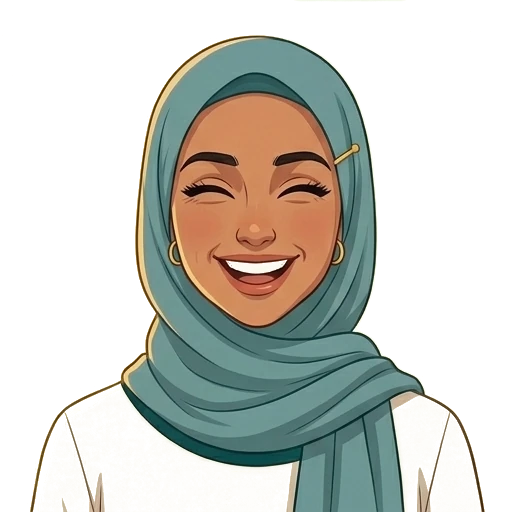
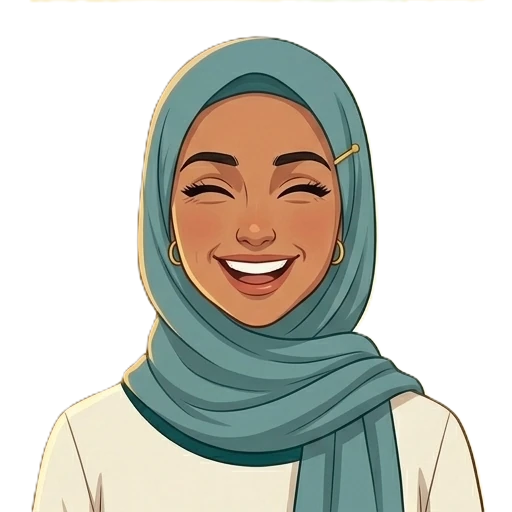
Cut the mascot images from transparent PNG sheets instead of keying out the wash

diff --git a/frontend/scripts/build_mascots.py b/frontend/scripts/build_mascots.py
@@ -1,10 +1,11 @@
 """Cut the mascots' expression sheets into the images the site serves.
 
-Each mascot's `<Name>.expressions.jpg` in design/podcast/characters/<Name>/ is a 2x2 sheet of
-the same portrait in four states, in reading order: listening, speaking, laughing,
-thoughtful. This cuts the four quadrants, keys the flat gold wash Gemini painted behind them
-to transparent (the site fills the disc with its own gold-wash token, which changes in dark
-mode) and writes public/images/mascots/<name>/<expression>.webp at 512 px.
+Each mascot's `<Name>.expressions.png` in design/podcast/characters/<Name>/ is a 2x2 sheet of
+the same portrait in four states on a transparent background, in reading order: listening,
+speaking, laughing, thoughtful. This cuts the four quadrants, pixel for pixel, and writes
+public/images/mascots/<name>/<expression>.webp with the transparency kept (the site fills the
+disc with its own gold-wash token, which changes in dark mode). A 1024 px sheet gives
+512 px images.
 
     npm run mascots:build
 
@@ -19,11 +20,6 @@ from pathlib import Path
 from PIL import Image
 
 EXPRESSIONS = ("listening", "speaking", "laughing", "thoughtful")
-# Colour distance from the wash below which a pixel is fully transparent, and above which it
-# is fully opaque; between them the alpha ramps, which softens the figure's outline.
-KEY_INNER = 14
-KEY_OUTER = 40
-SIZE = 512
 
 HERE = Path(__file__).resolve().parent
 DEFAULT_SOURCE = HERE.parent / "design" / "podcast" / "characters"
@@ -31,62 +27,30 @@ DEFAULT_OUT = HERE.parent / "public" / "images" / "mascots"
 
 
 def quadrants(sheet: Image.Image) -> dict[str, Image.Image]:
-    """The four expressions, cut from the sheet in reading order."""
-    width, height = sheet.size
+    """The four expressions, cut from the sheet in reading order, pixels untouched."""
+    rgba = sheet.convert("RGBA")
+    width, height = rgba.size
     half_w, half_h = width // 2, height // 2
     boxes = [(0, 0), (half_w, 0), (0, half_h), (half_w, half_h)]
     return {
-        name: sheet.crop((x, y, x + half_w, y + half_h))
+        name: rgba.crop((x, y, x + half_w, y + half_h))
         for name, (x, y) in zip(EXPRESSIONS, boxes)
     }
 
 
-def corner_colour(image: Image.Image) -> tuple[int, int, int]:
-    """The wash, sampled where nothing is ever drawn: the top-left pixel."""
-    r, g, b = image.convert("RGB").getpixel((0, 0))[:3]
-    return (r, g, b)
-
-
-def key_out(image: Image.Image, wash: tuple[int, int, int]) -> Image.Image:
-    """The image with the wash made transparent and a soft edge where the figure meets it."""
-    rgb = image.convert("RGB")
-    alpha = Image.new("L", rgb.size)
-    source = rgb.load()
-    target = alpha.load()
-    wr, wg, wb = wash
-    span = KEY_OUTER - KEY_INNER
-    for y in range(rgb.height):
-        for x in range(rgb.width):
-            r, g, b = source[x, y]
-            distance = ((r - wr) ** 2 + (g - wg) ** 2 + (b - wb) ** 2) ** 0.5
-            if distance <= KEY_INNER:
-                target[x, y] = 0
-            elif distance >= KEY_OUTER:
-                target[x, y] = 255
-            else:
-                target[x, y] = int(255 * (distance - KEY_INNER) / span)
-    keyed = rgb.convert("RGBA")
-    keyed.putalpha(alpha)
-    return keyed
-
-
-def build(source: Path, out: Path, size: int = SIZE) -> list[Path]:
+def build(source: Path, out: Path) -> list[Path]:
     """Write every mascot's four expressions; returns the files written."""
     written = []
     for folder in sorted(p for p in source.iterdir() if p.is_dir()):
-        sheet_path = folder / f"{folder.name}.expressions.jpg"
+        sheet_path = folder / f"{folder.name}.expressions.png"
         if not sheet_path.exists():
             continue
         with Image.open(sheet_path) as sheet:
-            wash = corner_colour(sheet)
             target = out / folder.name.lower()
             target.mkdir(parents=True, exist_ok=True)
             for expression, image in quadrants(sheet).items():
-                keyed = key_out(image, wash)
-                if keyed.size != (size, size):
-                    keyed = keyed.resize((size, size), Image.Resampling.LANCZOS)
                 path = target / f"{expression}.webp"
-                keyed.save(path, "WEBP", quality=90, method=6)
+                image.save(path, "WEBP", quality=90, method=6)
                 written.append(path)
     return written
 

diff --git a/frontend/scripts/test_build_mascots.py b/frontend/scripts/test_build_mascots.py
@@ -1,4 +1,4 @@
-"""Tests for build_mascots.py: cutting the expression sheets and keying out the wash."""
+"""Tests for build_mascots.py: cutting the transparent expression sheets into quadrants."""
 
 import sys
 import tempfile
@@ -10,15 +10,13 @@ from PIL import Image
 sys.path.insert(0, str(Path(__file__).parent))
 import build_mascots as b  # noqa: E402
 
-WASH = (249, 240, 201)
 
-
-def sheet(size=64, wash=WASH):
-    """A 2x2 sheet on the wash: each quadrant holds a disc of its own colour."""
-    img = Image.new("RGB", (size, size), wash)
+def sheet(size=64):
+    """A transparent 2x2 sheet: each quadrant holds an opaque disc of its own colour."""
+    img = Image.new("RGBA", (size, size), (0, 0, 0, 0))
     px = img.load()
     half = size // 2
-    colours = {(0, 0): (10, 20, 30), (1, 0): (40, 50, 60), (0, 1): (70, 80, 90), (1, 1): (100, 110, 120)}
+    colours = {(0, 0): (10, 20, 30, 255), (1, 0): (40, 50, 60, 255), (0, 1): (70, 80, 90, 255), (1, 1): (100, 110, 120, 255)}
     for (qx, qy), colour in colours.items():
         cx, cy = qx * half + half // 2, qy * half + half // 2
         for x in range(size):
@@ -39,34 +37,22 @@ class QuadrantsTest(unittest.TestCase):
         self.assertEqual(cut["thoughtful"].getpixel((16, 16)), colours[(1, 1)])
         self.assertEqual(cut["listening"].size, (32, 32))
 
-
-class KeyOutTest(unittest.TestCase):
-    def test_wash_becomes_transparent_and_the_figure_stays_opaque(self):
+    def test_pixels_are_copied_as_they_are_including_their_transparency(self):
         img, _ = sheet()
-        keyed = b.key_out(img, b.corner_colour(img))
-        self.assertEqual(keyed.mode, "RGBA")
-        self.assertEqual(keyed.getpixel((0, 0))[3], 0)
-        self.assertEqual(keyed.getpixel((16, 16))[3], 255)
-
-    def test_a_slightly_off_wash_pixel_is_still_keyed(self):
-        img, _ = sheet()
-        img.putpixel((1, 1), (246, 238, 205))
-        keyed = b.key_out(img, b.corner_colour(img))
-        self.assertEqual(keyed.getpixel((1, 1))[3], 0)
-
-    def test_corner_colour_is_sampled_from_the_sheet(self):
-        img, _ = sheet(wash=(250, 243, 208))
-        self.assertEqual(b.corner_colour(img), (250, 243, 208))
+        cut = b.quadrants(img)
+        self.assertEqual(cut["listening"].mode, "RGBA")
+        self.assertEqual(cut["listening"].getpixel((0, 0))[3], 0)
+        self.assertEqual(cut["listening"].getpixel((16, 16))[3], 255)
 
 
 class BuildTest(unittest.TestCase):
-    def test_writes_four_transparent_webps_per_mascot(self):
+    def test_cuts_each_mascots_png_sheet_into_four_transparent_webps(self):
         with tempfile.TemporaryDirectory() as tmp:
             src, out = Path(tmp) / "characters", Path(tmp) / "out"
             for name in ("Hamza", "Zoya"):
                 (src / name).mkdir(parents=True)
-                sheet()[0].save(src / name / f"{name}.expressions.jpg", quality=95)
-            written = b.build(src, out, size=32)
+                sheet()[0].save(src / name / f"{name}.expressions.png")
+            written = b.build(src, out)
             self.assertEqual(len(written), 8)
             for name in ("hamza", "zoya"):
                 for expression in b.EXPRESSIONS:
@@ -75,6 +61,15 @@ class BuildTest(unittest.TestCase):
                     with Image.open(path) as img:
                         self.assertEqual(img.size, (32, 32))
                         self.assertEqual(img.mode, "RGBA")
+                        self.assertEqual(img.getpixel((0, 0))[3], 0)
+                        self.assertEqual(img.getpixel((16, 16))[3], 255)
+
+    def test_a_folder_with_only_a_jpg_sheet_is_skipped(self):
+        with tempfile.TemporaryDirectory() as tmp:
+            src, out = Path(tmp) / "characters", Path(tmp) / "out"
+            (src / "Hamza").mkdir(parents=True)
+            sheet()[0].convert("RGB").save(src / "Hamza" / "Hamza.expressions.jpg")
+            self.assertEqual(b.build(src, out), [])
 
 
 if __name__ == "__main__":

diff --git a/CLAUDE.md b/CLAUDE.md
@@ -67,7 +67,7 @@ infra/             Terraform modules: azure/ (swa, keyvault, log-analytics, aca-
 - **The printed volume**: `src/components/book-model/book-model.tsx` renders the Noor e Imaan book as a Three.js scene on the signed-out home hero (`variant="hero"`, pointer tilt), the continue-reading card (`variant="card"`, a gold ribbon at the reader's `quranProgress()` through all 6236 verses, from `src/lib/quran-progress.ts`) and the About page (`variant="inspect"`, drag to rotate, pinch to zoom; a plain mouse wheel still scrolls the page, only a trackpad pinch, which arrives as a ctrl+wheel event, zooms). The component owns lifecycle only: it shows the poster `public/images/noor-e-imaan-book-poster.webp` first, and only when `canRenderBook()` in `src/lib/book-model-support.ts` passes (no reduced motion, no Save-Data, at least 2 GB device memory, WebGL 2 available), the box is within 200 px of the viewport and the window has loaded does it `import()` `book-scene.ts`, so Three.js is a separate chunk never loaded by `/quran/*`. The scene renders on demand (no frames at rest) and any failure leaves the poster. The consumer sizes the box through `className`; the component's own default size sits in a `:where()` rule so it never outranks the consumer's class. The served model `public/models/noor-e-imaan-book.v1.glb` (about 370 KB, budget 500 KB) is built from the 34 MB Blender export `design/noor_e_iman_book.glb` by `npm run model:build`; the poster is captured from the live dev server by `npm run model:poster` (needs local Chrome; the dev server must not share its `.next` folder with a concurrent `npm run build`, which 404s the dev chunks). The cover is a single mesh with no hinge, so the book does not open; the spec `plans/frontend-book-model-spec.md` records the Blender work an opening transition would need. Copy rules from the cold-start work apply: nothing says "3D", "model" or "loading"
 - **Sharing a verse**: the Share button on a verse (continuous-mode block or verse-mode popup) opens `src/components/scripture/share-verse-sheet.tsx`, a bottom sheet headed simply "Share" over the verse reference, with two options named for what the recipient receives rather than where the link opens from: **"This ayah"** shares the chapter link (`/quran/<c>/?verse=<v>`, which scrolls to and flashes the verse; hint "<chapter name>, verse <v>") and **"This ruku"** shares the ruku within the juz (`/quran/juz/<j>/ruku/<r>/`, deliberately without a `?verse=` query: the ruku link shares the passage and opens at its start; hint "Ruku <r> of juz <j>"). A third "From its juz" option (`/quran/juz/<j>/?verse=<c>-<v>`) was removed as redundant with the ruku one, and the options were renamed from "From its chapter"/"From its ruku" at the same time. The juz and ruku numbers come from the verse's `RukuDto` in the static `RUKU_BY_ID` map (`src/data/rukus.ts`), so they are available immediately; the ruku option falls back to disabled with the hint "Finding its place in the book" only if a verse's ruku is missing. Link and message builders live in `src/lib/share-verse.ts`; the message opens with "Noor-e-Imaan | <chapter name> <c>:<v>", plus " | Juz <j>, Ruku <r>" when shared from the ruku (so the recipient still sees which verse prompted the share even though that link opens at the ruku's start), then the translation as displayed on its own line, never the Arabic. The link travels separately: `navigator.share` gets it in `url` only (share targets append `url` to `text` themselves, so putting it in both printed it twice), and the clipboard fallback appends it once to the copied text, with a "Copied" confirmation in the sheet that closes it after a moment
 - **Recitation audio**: readers can press Play on any verse (the first action on a verse-mode `AyahBlock`, the continuous-mode popup header, and a verse list's header and group captions) and hear Abdul Basit Abdul Samad's murattal run on from there, with the verse being read washed (`--tint-teal-8`) and kept in view. One site-wide `AudioPlayerProvider` (`src/context/audio-player-context.tsx`, mounted once in `app-shell.tsx` inside `ReaderSettingsProvider` and around every page, so it outlives navigation, reads the recitation settings and needs no account, so it plays for anonymous readers too; the redirect bridge route returns before it) owns one `Audio` element, created on the first Play inside the tap, and a content-agnostic queue of `Clip`s (`url`, optional `fromMs`/`toMs`, `title`, `subtitle`, `ref`) in a `Playlist` (`id`, `clips`, `href`), so essay recordings can use it later with no change. It advances on `requestAnimationFrame` plus `timeupdate` (for background tabs): a next clip in the same file starting within `BOUNDARY_TOLERANCE_MS` (300) of the last one's end runs on gapless, elsewhere in the file is a seek (backwards over the export's overlaps, forwards over its gaps), another file is a `src` change; the last clip closes the bar. Media Session metadata and handlers give lock-screen and headset control; `offline` pauses; an `error` or a refused `play()` sets `failed`, which the bar's Try again retries; `close()` returns focus to the triggering button. Pages ask `isCurrent(ref)` to highlight and `useFollowReading(current?.ref)` (`src/components/audio/use-follow-reading.ts`) to scroll `#verse-<c>-<v>` to the centre only when it is off screen (`ArabicPassage` carries those ids too). The bar (`src/components/audio/audio-player-bar.tsx`, `role="region"` "Recording", z-index 95) sits above the reader toolbar on reader routes and above the phone bottom nav elsewhere via `data-clears`, and carries a settings gear that opens the sheet on "Recitation settings" (gated with `useSignInGate("settings")` like the toolbar's). That section holds the three recitation settings saved with the reader's others (`UserSettingsDto`, backend defaults as well, so an older client's save leaves them as they were): **Reciter**, a dropdown over `RECITATIONS` in `src/config/recitation.ts` (`RecitationOption` rows of `name` for the list, `reciter` for the lock screen and `timings`, whose `id` is the saved value; one entry today, "Abdul Basit Abdul Samad - Murattal"; `RECITATION` is the default and `recitationById(reciter)` the row a saved id names, falling back to the default for one no longer offered; the reader and list pages hand it to `versePlaylist`, which stamps `reciter` on the `Playlist` for the Media Session artist), **Speed**, a stepper over `RECITATION_SPEEDS` (1, 1.2, 1.5, 1.7, 2, 2.5; `recitationSpeed` holds the multiplier itself, default 1, and `nearestRecitationSpeed()` snaps any saved value to a step), which the provider sets as the element's `playbackRate` and `defaultPlaybackRate` on creation and on every change (a load resets the rate to the default, so the next file would otherwise fall back to normal speed); the stepper lives only in the sheet, not on the bar; and **Continue to the next verse** (`continueRecitation`, on by default): off, the end of the verse Play was pressed on closes the bar as if the playlist had ended, while Next and Previous still move by hand; the provider keeps the setting in a ref so a change applies at the next verse end; while open `<html data-audio-bar>` is set and `--audio-bar-height` (56px) is added to the footer's, back-to-top's and verse popup's bottom clearance. `src/lib/recitation-playlist.ts` turns verses into clips from the bundled timings: `clipFor(recitation, c, v)` (verse 0 is the `basmala` span from chapter 1's file for every chapter but 9, which throws), `versePlaylist(id, verses, href)`, `listPlaylist(id, groups, href)` for a verse list (each group opens with the ﷽ its header shows, `showsBismillah()`, so a group from the middle of at-Tawbah is read with it too; it also returns `groupOfClip`, the group index of every clip, because two groups of one chapter share its verse 0, so `list-view.tsx` finds a group's first clip and washes the ﷽ being read, `data-reading` on the card's bismillah, by group rather than by ref), `chapterAudioUrl` and `verseQuery` (the bar's link back to the verse). The timings `src/data/recitations/abdul-basit-murattal.ts` (`RecitationTimings`: `id`, `version`, `basmala`, `chapters` rows of `[verse, fromMs, toMs]`) are generated by `npm run recitation:build` (`scripts/build-recitation-timings.mjs`, tests in `npm run recitation:test`) from Tarteel's QUL export (resource 408) in the gitignored `audio/.tarteel/export/segments.json`, remapping al-Fatiha (Tarteel 1:1 is the basmala, 1:2–1:6 are our 1:1–1:5, 1:7's nine words split at word 5 into our 1:6 and 1:7) and asserting every other chapter's verse count; its 62 overlaps are copied as they are, printed on each run and catalogued in `plans/recitation-timing-issues.md` as debt. The MP3s live in one hand-managed Cloudflare R2 bucket behind `https://audio.ishqnama.com` (`RECITATION_AUDIO_ORIGIN` in `src/config/recitation.ts`, shared by every environment) at `/recitations/v1/abdul-basit-murattal/NNN.mp3` with a one-year `immutable` cache header, so a changed recording goes under `/v2/` with `version: 2`; `npm run recitation:fetch` downloads them from Tarteel's CDN into `audio/.tarteel/mp3/` and `npm run recitation:upload` syncs them with `rclone` (setup in `infra/README.md`, "Recitation audio on R2"). Nothing is fetched until Play is pressed. Copy lives in `src/config/audio-copy.ts` under the readiness-copy rules (never "player", "audio file", "stream", "load"; enforced by `src/config/__tests__/audio-copy.test.ts`); telemetry is `recording-played` (`route`) and `recording-failed` (`reason`), never a verse. Design in `plans/frontend-recitation-audio-spec.md`
-- **Podcast mascots and recordings**: Hamza (the lower voice) and Zoya (the higher) are the two illustrated hosts for podcast-style discussions of Islamic topics through Quranic verses; their portraits and four-expression sheets (1 listening, 2 speaking, 3 laughing, 4 thoughtful, by quadrant) are in `frontend/design/podcast/characters/<Name>/` with the Gemini prompts that made them, on a baked-in gold wash that must be keyed out before the images serve in dark mode. Episodes are NotebookLM audio in Urdu with one or two voices and arrive in `frontend/design/podcast/audio/`. Claude cannot hear them, so onboarding goes through the project skill `.claude/skills/onboarding-podcast-audio/`, which drives `frontend/scripts/diarize_podcast.py` (Python 3.13 venv `.venv-podcast` from `scripts/podcast-requirements.txt`; CPU only, no token: Silero VAD, SpeechBrain ECAPA embeddings, k-means into two voices or one when the clusters sit under 0.35 cosine apart, pitch to name the voices, faster-whisper for the transcript) to write `<episode>.timeline.json` beside the recording: an optional `title` and `caption` for the topic (`--title`, `--caption`), and ordered, non-overlapping turns of `speaker`, `fromMs`, `toMs`, `expression` (speaking, laughing or thoughtful; the listener is implied) and `text`, which Claude reviews against the skill's expression rules before `--check` accepts it. `scripts/test_diarize_podcast.py` covers the turn logic anywhere and, with the venv on Windows, runs a synthetic two-voice and one-voice conversation from the built-in speech voices (`scripts/make_podcast_fixture.ps1`) through the whole pipeline. The first player is the lab page `/lab/podcast/` (`src/app/lab/podcast/`, disallowed in robots.txt and absent from the sitemap, like every `/lab/` route): `?episode=<path under /podcasts/>` (default `DEFAULT_LAB_EPISODE` in `src/config/podcast.ts`) names an episode whose timeline `useEpisode` (`src/hooks/use-episode.ts`) fetches from `PODCAST_AUDIO_ORIGIN` (`https://audio.ishqnama.com/podcasts/<episode>.timeline.json`, the recording beside it under the timeline's `audio` name; both are uploaded to the R2 bucket by hand for now and its CORS policy already lets any origin read), parsed by `parseTimeline` in `src/lib/podcast-timeline.ts`. **Listen** opens `src/components/podcast/podcast-bubble.tsx`, docked bottom right: both hosts as `mascot-avatar.tsx` portraits on the gold-wash token (images from `npm run mascots:build`, `scripts/build_mascots.py`, which cuts the sheets and keys the wash out into `public/images/mascots/<id>/<expression>.webp`), a head with the Ishqnama mark, the "Ishqnama | Reflections" wordmark and the timeline's title and caption, a speech balloon that fills the height, its tail pointing down at the speaker, with the turn's words in Nastaleeq, then both portraits and one transport row; it ends below the app bar while the bar is on screen (`useAppBarBottom`). The bubble owns its own cross-origin `<audio>` (separate from the recitation's `AudioPlayerProvider` for now), follows it every frame with `turnAt`/`mascotStates`, and `src/hooks/use-audio-level.ts` feeds the speaker's halo (`--voice-level`, opacity and scale of a gold pseudo-element) from a Web Audio analyser, falling back to a steady breathing halo (`data-glow="steady"`) where none can be made. Copy is `src/config/podcast-copy.ts` under the readiness-copy rules (never "podcast", "player", "stream" or "load" in reader-facing text: it is a "discussion" or a "recording"). Joining the site-wide player, where discussions are offered on article and verse pages, and the R2 upload tooling are still to be designed
+- **Podcast mascots and recordings**: Hamza (the lower voice) and Zoya (the higher) are the two illustrated hosts for podcast-style discussions of Islamic topics through Quranic verses; their portraits and four-expression sheets (1 listening, 2 speaking, 3 laughing, 4 thoughtful, by quadrant) are in `frontend/design/podcast/characters/<Name>/` with the Gemini prompts that made them; the `.expressions.jpg` is Gemini's output on its gold wash and the `.expressions.png` beside it is the same sheet with the wash removed by hand, which is the one the build reads. Episodes are NotebookLM audio in Urdu with one or two voices and arrive in `frontend/design/podcast/audio/`. Claude cannot hear them, so onboarding goes through the project skill `.claude/skills/onboarding-podcast-audio/`, which drives `frontend/scripts/diarize_podcast.py` (Python 3.13 venv `.venv-podcast` from `scripts/podcast-requirements.txt`; CPU only, no token: Silero VAD, SpeechBrain ECAPA embeddings, k-means into two voices or one when the clusters sit under 0.35 cosine apart, pitch to name the voices, faster-whisper for the transcript) to write `<episode>.timeline.json` beside the recording: an optional `title` and `caption` for the topic (`--title`, `--caption`), and ordered, non-overlapping turns of `speaker`, `fromMs`, `toMs`, `expression` (speaking, laughing or thoughtful; the listener is implied) and `text`, which Claude reviews against the skill's expression rules before `--check` accepts it. `scripts/test_diarize_podcast.py` covers the turn logic anywhere and, with the venv on Windows, runs a synthetic two-voice and one-voice conversation from the built-in speech voices (`scripts/make_podcast_fixture.ps1`) through the whole pipeline. The first player is the lab page `/lab/podcast/` (`src/app/lab/podcast/`, disallowed in robots.txt and absent from the sitemap, like every `/lab/` route): `?episode=<path under /podcasts/>` (default `DEFAULT_LAB_EPISODE` in `src/config/podcast.ts`) names an episode whose timeline `useEpisode` (`src/hooks/use-episode.ts`) fetches from `PODCAST_AUDIO_ORIGIN` (`https://audio.ishqnama.com/podcasts/<episode>.timeline.json`, the recording beside it under the timeline's `audio` name; both are uploaded to the R2 bucket by hand for now and its CORS policy already lets any origin read), parsed by `parseTimeline` in `src/lib/podcast-timeline.ts`. **Listen** opens `src/components/podcast/podcast-bubble.tsx`, docked bottom right: both hosts as `mascot-avatar.tsx` portraits on the gold-wash token (images from `npm run mascots:build`, `scripts/build_mascots.py`, which cuts the transparent PNG sheets into quadrants, pixels untouched, as `public/images/mascots/<id>/<expression>.webp`), a head with the Ishqnama mark, the "Ishqnama | Reflections" wordmark and the timeline's title and caption, a speech balloon that fills the height, its tail pointing down at the speaker, with the turn's words in Nastaleeq, then both portraits and one transport row; it ends below the app bar while the bar is on screen (`useAppBarBottom`). The bubble owns its own cross-origin `<audio>` (separate from the recitation's `AudioPlayerProvider` for now), follows it every frame with `turnAt`/`mascotStates`, and `src/hooks/use-audio-level.ts` feeds the speaker's halo (`--voice-level`, opacity and scale of a gold pseudo-element) from a Web Audio analyser, falling back to a steady breathing halo (`data-glow="steady"`) where none can be made. Copy is `src/config/podcast-copy.ts` under the readiness-copy rules (never "podcast", "player", "stream" or "load" in reader-facing text: it is a "discussion" or a "recording"). Joining the site-wide player, where discussions are offered on article and verse pages, and the R2 upload tooling are still to be designed
 - **Link previews**: every page carries a title, description and Open Graph / Twitter card built by `pageMetadata()` in `src/lib/page-metadata.ts` (reader routes use `suraMetadata`, `suraRukuMetadata`, `juzMetadata` and `juzRukuMetadata` in `generateMetadata`; client-component pages get theirs from a server `layout.tsx`: `/quran/`, `/library/`, `/search/`). Always go through the helper, because Next.js replaces rather than merges a parent's `openGraph`, so a page setting only `openGraph.title` would lose the image. Crawlers run no JavaScript and need absolute URLs, so the root layout's `metadataBase` comes from `NEXT_PUBLIC_SITE_URL` (an SWA app setting in `infra/environments/*/ishqnama-web.tf`, read by `deploy-frontend.yml`; falls back to `https://ishqnama.com`). The single shared image `public/images/og-ishqnama.jpg` (1200×630, under WhatsApp's ~300 KB limit, content centred for its square crop) is rendered by `npm run og:image` (`scripts/render-og-image.mjs`, needs local Chrome) from the gold logo, book poster, MDMS mark and Nastaleeq font. `design/ishqnama-web-social-preview.png` is the GitHub repository's social preview for developers and must not be used on the site, since it shows the repo link
 - **robots.txt**: generated at build time by `src/app/robots.ts` (`dynamic = "force-static"`, required under `output: "export"`) from `robotsFor()` in `src/lib/robots.ts`. Only a build whose `NEXT_PUBLIC_SITE_URL` host is `ishqnama.com` or `www.ishqnama.com` lets crawlers in, apart from `/redirect/`, `/library/`, `/search/`, `/lists/` and `/articles/`, and shuts the AI crawlers named in `AI_CRAWLERS` (training, AI search and assistant fetchers, plus the `Google-Extended` and `Applebot-Extended` opt-out tokens) out of the whole site in a group of their own. Search engines and link-preview fetchers must never go on that list, or Google results and WhatsApp previews break; the robots test checks this. robots.txt is a request, not enforcement: scrapers that ignore it would need Cloudflare proxying with its AI-bot blocking, which the site does not use (its records are DNS-only); every other build (dev.ishqnama.com, and local builds, since `.env.local` sets `http://localhost:3000`) disallows everything. Only the production rules carry the `Sitemap:` line
 - **sitemap.xml**: generated the same way by `src/app/sitemap.ts` from `sitemapFor()` in `src/lib/sitemap.ts`, with absolute URLs on the `NEXT_PUBLIC_SITE_URL` origin: the public static pages, the 114 chapters, the 30 ajza and the chapter ruku pages (670 URLs). Two kinds of page are left out so search engines are not offered the same text under two URLs: the juz ruku pages, which repeat a chapter ruku, and the ruku page of a single-ruku chapter, which repeats the chapter. A new public page needs its path added to `STATIC_PATHS` there. `src/lib/__tests__/sitemap.test.ts` checks the sitemap never lists a path that robots.txt disallows
